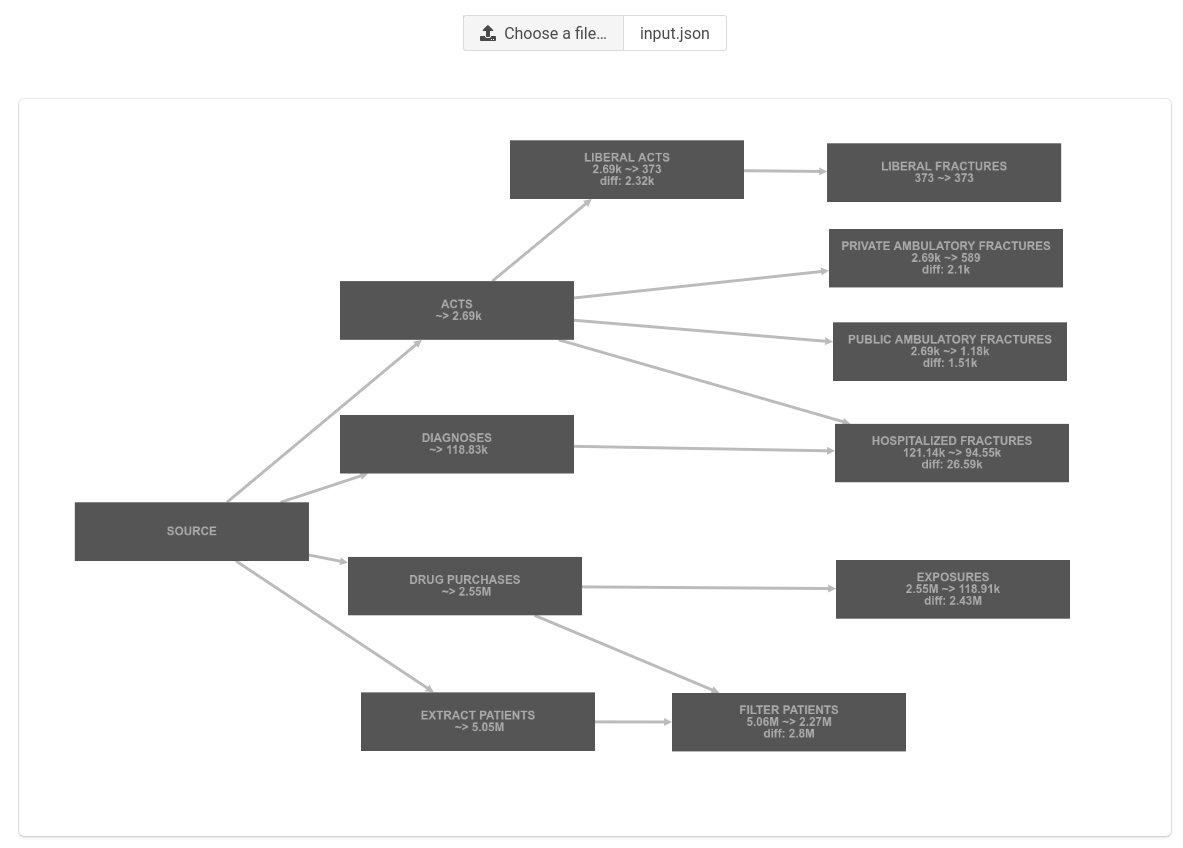
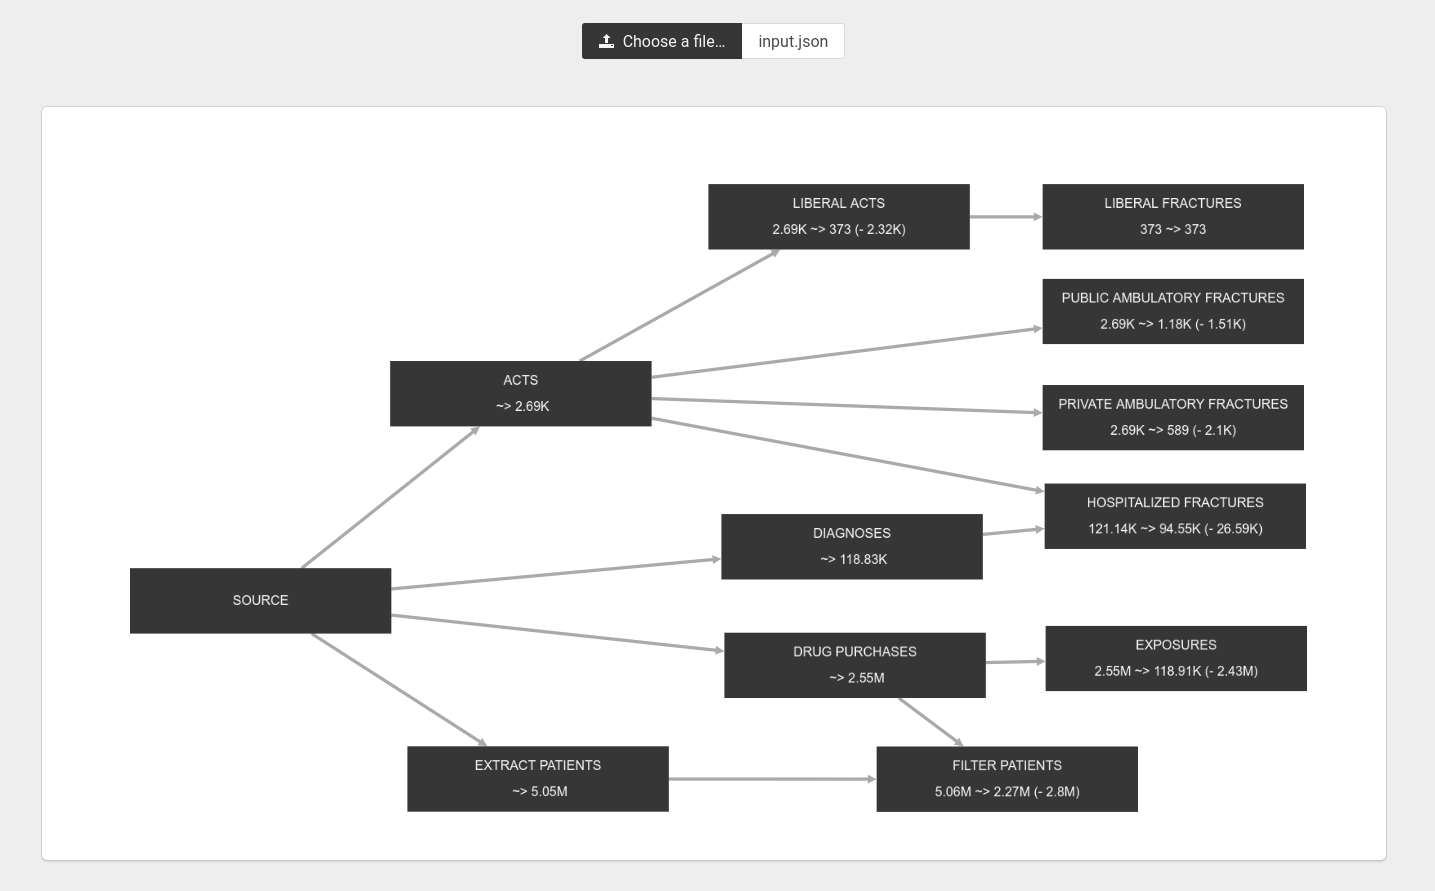
Improve style

diff --git a/js/graph.js b/js/graph.js
@@ -16,13 +16,12 @@ Graph = (function() {
           'shape': 'rectangle',
           'width': 320,
           'height': '5em',
-          'color': 'white',
-          'background-color': '#555',
-          'text-opacity': 0.5,
+          'color': '#f7f7f7',
+          'background-color': '#363636',
           'text-valign': 'center',
           'text-halign': 'center',
           'text-wrap': 'wrap',
-          'font-weight': 'bold'
+          'font-family': 'sans-serif'
         }
       },
       {
@@ -31,8 +30,8 @@ Graph = (function() {
           'curve-style': 'bezier',
           'width': 4,
           'target-arrow-shape': 'triangle',
-          'line-color': '#bbb',
-          'target-arrow-color': '#bbb'
+          'line-color': '#aaa',
+          'target-arrow-color': '#aaa'
         }
       }
     ]
@@ -44,11 +43,10 @@ Graph = (function() {
     var count_left = el.data('count_left') 
     var count_right = el.data('count_right')
     var diff = count_left - count_right
-    return name.toUpperCase() + '\n' +
+    return name.toUpperCase() + '\n' + '\n' +
       (count_left ? fmt(count_left) : '') + (count_right ? (sep + fmt(count_right)) : '') +
-      (diff > 0 ? ('\n' + 'diff: ' + fmt(diff)) : '')
+      (diff > 0 ? (' (- ' + fmt(diff)) + ')' : '')
   }}
-
 
   function draw($container, elements) {
     cytoscapeOptions.container = $container

diff --git a/index.html b/index.html
@@ -12,13 +12,13 @@
   <div class="section">
     <div class="container">
       <div class="upload">
-        <div class="file has-name">
+        <div class="file has-name is-dark">
           <label class="file-label">
             <input id="file" class="file-input" type="file" name="input">
             <span class="file-cta">
               <span class="file-icon">
                 <svg width="512" height="512" viewBox="0 0 512 512">
-                  <path d="M240 352h-240v128h480v-128h-240zM448 416h-64v-32h64v32zM112 160l128-128 128 128h-80v160h-96v-160z"></path>
+                  <path fill="#f5f5f5" d="M240 352h-240v128h480v-128h-240zM448 416h-64v-32h64v32zM112 160l128-128 128 128h-80v160h-96v-160z"></path>
                 </svg>
               </span>
               <span class="file-label">

diff --git a/css/index.css b/css/index.css
@@ -1,3 +1,7 @@
+html {
+  background-color: #eee;
+}
+
 #graph {
   height: 80vh;
   display: block;
@@ -8,4 +12,8 @@
   justify-content: center;
   margin: auto;
   width: 80%;
+}
+
+.file-name {
+  background-color: white;
 }
